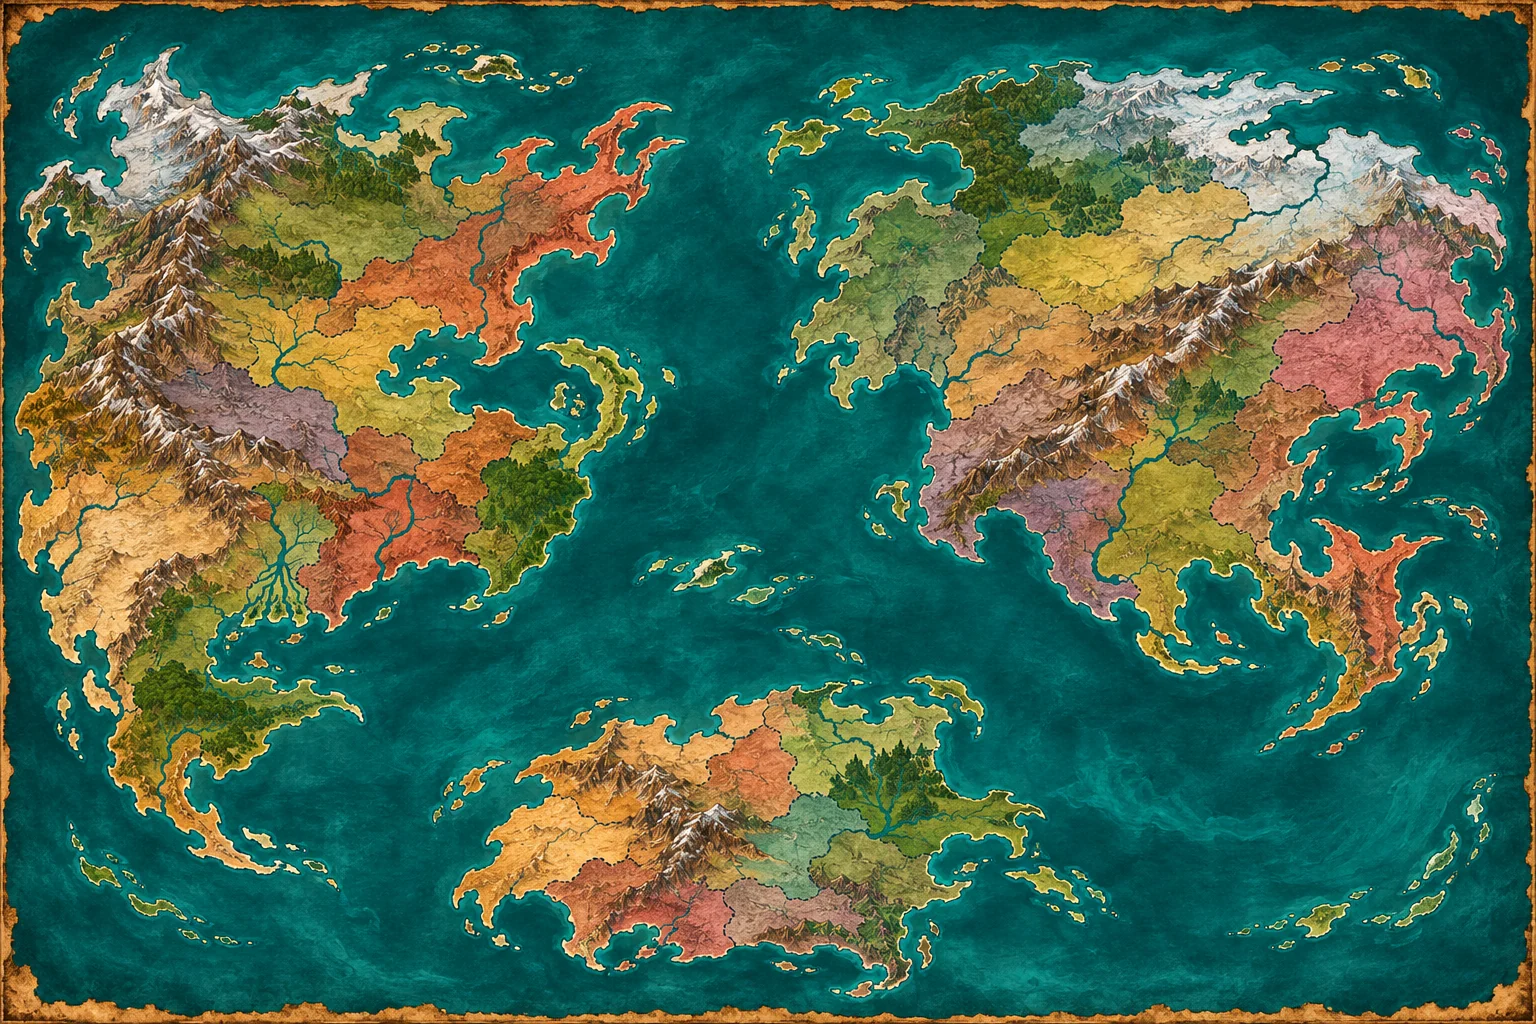
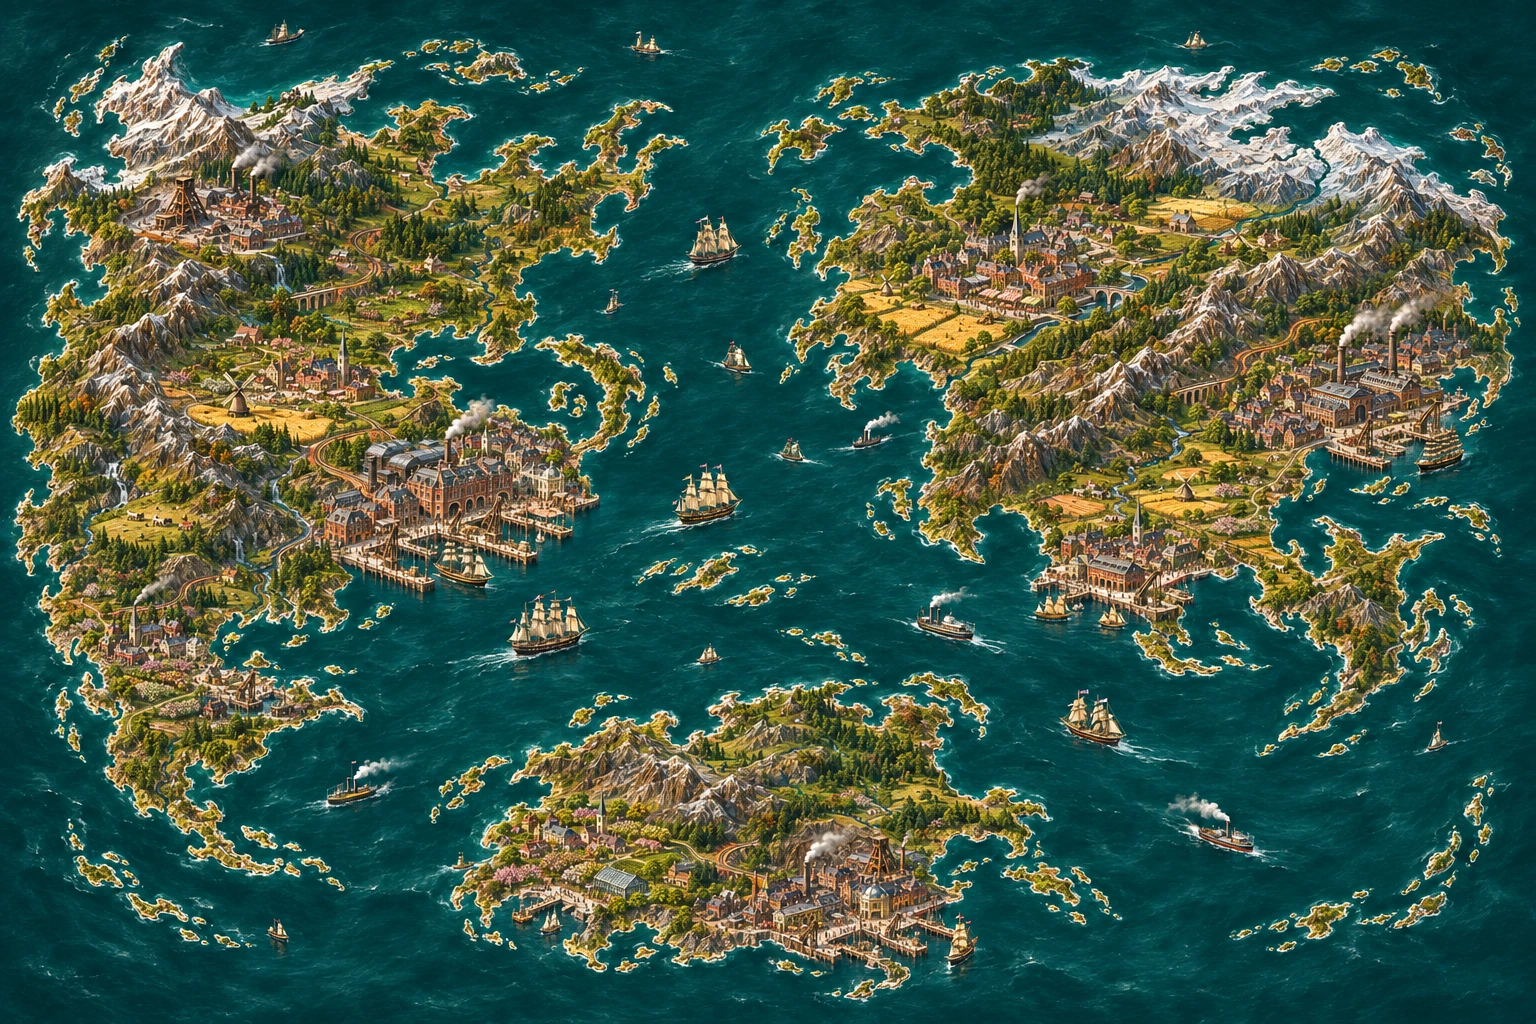
Paint the world trade atlas in the harbor's maritime style

diff --git a/webapp/js/student-ui.js b/webapp/js/student-ui.js
@@ -175,11 +175,11 @@ document.addEventListener('change', (e) => {
 // same map works with a touch screen, a mouse, and a keyboard.
 const MAP_POSITIONS = {
   // Western continent
-  Mineria: [13, 14, 'west'], Grainia: [19, 39, 'west'], Tropia: [12, 65, 'west'], Oilia: [34, 50, 'west'],
+  Mineria: [13, 21, 'west'], Grainia: [19, 39, 'west'], Tropia: [12, 65, 'west'], Oilia: [30, 48, 'west'],
   // Eastern continent
-  Technia: [66, 23, 'east'], Mechania: [89, 34, 'east'], Novia: [72, 54, 'east'],
+  Technia: [65, 26, 'east'], Mechania: [88, 38, 'east'], Novia: [72, 54, 'east'],
   // Southern continent
-  Agrea: [36, 81, 'south'], Ferria: [56, 86, 'south'],
+  Agrea: [37, 83, 'south'], Ferria: [56, 86, 'south'],
 };
 
 function worldMap() {
@@ -227,8 +227,8 @@ function worldMap() {
             <button type="button" class="country-marker ${country === S.country ? 'our-country' : ''}"
               style="--map-x:${x}%;--map-y:${y}%" data-act="map-select" data-country="${country}"
               aria-controls="world-country" aria-pressed="false">
-              ${country === S.country ? '<span aria-hidden="true">★</span><span class="sr-only">우리 나라 </span>' : ''}
-              ${esc(gname(country))}
+              <span class="country-name">${country === S.country ? '<span aria-hidden="true">★</span><span class="sr-only">우리 나라 </span>' : ''}
+              ${esc(gname(country))}</span>
             </button>`).join('')}
         </div>
           <div class="atlas-controls" role="group" aria-label="지도 카메라">
@@ -265,10 +265,22 @@ const TRIP_MS = 5200;
 
 // The hand-painted map has a road junction, harbor and offshore way point per continent.
 const CONTINENT_ROUTES = {
-  west: { junction: [18, 46], harbor: [34, 56], offshore: [42, 61] },
-  east: { junction: [68, 42], harbor: [61, 46], offshore: [58, 52] },
-  south: { junction: [47, 80], harbor: [55, 70], offshore: [54, 65] },
+  west: { junction: [20, 45], harbor: [34, 53], offshore: [36, 54.1] },
+  east: { junction: [74, 45], harbor: [72, 59], offshore: [71.5, 61.6] },
+  south: { junction: [47, 82], harbor: [61.4, 91.6], offshore: [65.8, 94.5] },
 };
+
+// Ordered offshore waypoints keep both renderers on the same navigable channels.
+const SEA_LANES = {
+  west: { east: [[52.5,52.9], [68.7,61.6]],
+    south: [[55.1,64.3], [63,65.5], [72,64], [75,71], [74,76], [73,87]] },
+  east: { south: [[72,64], [75,71], [74,76], [73,87]] },
+};
+
+function seaLane(from, to, departure = CONTINENT_ROUTES[from].harbor, arrival = CONTINENT_ROUTES[to].harbor) {
+  const turns = SEA_LANES[from]?.[to] || [...SEA_LANES[to][from]].reverse();
+  return [departure, CONTINENT_ROUTES[from].offshore, ...turns, CONTINENT_ROUTES[to].offshore, arrival];
+}
 
 function shipmentStages(leg, airRoutes = false) {
   const start = MAP_POSITIONS[leg.seller];
@@ -283,7 +295,7 @@ function shipmentStages(leg, airRoutes = false) {
   }
   return [
     { type: 'truck', points: [start, origin.junction, origin.harbor], from: 0, to: .23 },
-    { type: 'ship', points: [origin.harbor, origin.offshore, destination.offshore, destination.harbor], from: .23, to: .77 },
+    { type: 'ship', points: seaLane(start[2], end[2]), from: .23, to: .77 },
     { type: 'truck', points: [destination.harbor, destination.junction, end], from: .77, to: 1 },
   ];
 }
@@ -405,8 +417,9 @@ function openTradeMap() {
   const frame = $('.atlas-frame');
   if (!frame?.classList.contains('showing-harbor')) return;
   frame.classList.remove('showing-harbor');
+  frame.closest('#world').scrollIntoView({ block: 'start' });
   if (tradeAtlas?.ready) tradeAtlas.changeCamera('reset');
-  else if (tradeAtlas) tradeAtlas.camera = { x: 0, z: 0, zoom: 1, yaw: -.12 };
+  else if (tradeAtlas) tradeAtlas.camera = { x: 0, z: 0, zoom: 1, yaw: 0 };
 }
 
 function bindHarbor(frame) {
@@ -859,6 +872,9 @@ const ATLAS_FRAGMENT = `#version 300 es
     return .64 + .36 * texture(shadows, uv);
   }
   uniform sampler2D materials;
+  uniform sampler2D worldPainting;
+  uniform sampler2D steamer;
+  uniform float zoom;
   in vec2 uv;
   uniform int layer;
   uniform float time;
@@ -872,11 +888,22 @@ const ATLAS_FRAGMENT = `#version 300 es
     return mix(mix(h.x,h.y,f.x), mix(h.z,h.w,f.x), f.y);
   }
   void main() {
+    if (layer == 3) {
+      pixel = texture(steamer, uv);
+      if (pixel.a < .08) discard;
+      return;
+    }
     if (layer == 2) {
       vec3 albedo = uv.x < 0. ? rgb : rgb * texture(materials, uv).rgb;
       pixel = vec4(albedo * light(p), 1.);
       return;
     }
+    // The painting follows world coordinates through rotation, zoom and every terrain triangle.
+    vec2 mapUV = p.xz / vec2(18., 12.) + .5;
+    float margin = min(min(mapUV.x, mapUV.y), min(1.-mapUV.x, 1.-mapUV.y));
+    vec2 waveUV = .00034 * vec2(sin(p.z*12.+time), cos(p.x*13.-time*.7));
+    vec3 paint = texture(worldPainting, mapUV + (rgb.r < 0. ? waveUV : vec2(0.))).rgb;
+    float ink = smoothstep(-.005,.016,margin) * (1.-smoothstep(3.5,11.,zoom));
     float grain = noise(p.xz * 4.) * .7 + noise(p.xz * 23.) * .3;
     if (layer == 1 && rgb.r > 0.) {
       vec3 n = normalize(cross(dFdx(p), dFdy(p)));
@@ -886,14 +913,15 @@ const ATLAS_FRAGMENT = `#version 300 es
       vec3 ground = mix(grass, rock, smoothstep(.28,.68,p.y) * (1. - abs(n.y)*.56));
       ground = mix(ground, vec3(.88,.89,.79), smoothstep(.73,.94,p.y));
       ground = mix(vec3(.84,.75,.51), ground, smoothstep(.008,.14,rgb.r));
-      pixel = vec4(ground * (.73 + sunlight*.36) * light(p), 1.);
+      pixel = vec4(mix(ground * (.73 + sunlight*.36) * light(p), paint * (.95 + .065*sunlight), ink), 1.);
     } else {
       float depth = layer == 1 ? -rgb.r : 1.;
       vec3 sea = mix(vec3(.21,.65,.59),vec3(.055,.32,.43), smoothstep(0.,.65,depth));
       float swell = sin(p.z*19. + sin(p.x*7.-time*.8));
       float wave = sin(p.z*111.+p.x*15.+grain*7.+time*2.1) * .65 + .35*swell;
       float surf = (1. - smoothstep(.01,.15,depth)) * smoothstep(-.65,.7,sin(depth*132.-time*2.2+grain));
-      pixel = vec4(mix(sea,vec3(.87,.91,.77),surf*.74) + vec3(.04,.07,.06)*smoothstep(.49,.93,wave)*grain,1.);
+      vec3 coast = mix(sea, vec3(.87,.91,.77), surf*.74);
+      pixel = vec4(mix(coast, paint, ink) + vec3(.04,.07,.06)*smoothstep(.49,.93,wave)*grain,1.);
     }
   }`;
 
@@ -950,7 +978,7 @@ function atlasTerrain(art, mask) {
     const inland = Math.min(1, distance / 10);
     return .05 + inland * (.13 + snow ** 1.65 * .93 + ridges * .06);
   });
-  // Fade out the decorative border that belongs only to the illustrated 2D map.
+  // Taper the outermost terrain cells into the surrounding sea.
   for (let i = 0; i < elevation.length; i++) {
     const x = i % TERRAIN_WIDTH, z = Math.floor(i / TERRAIN_WIDTH);
     const edge = Math.min(x, TERRAIN_WIDTH-1-x, z, TERRAIN_DEPTH-1-z);
@@ -1505,7 +1533,7 @@ function atlasShipment(leg) {
     { type: 'truck', points: [start.gate, first.junction, origin.apron], from: 0, to: .22, caption: '출발지 창고에서 항구로 가는 중' },
     { type: 'load', points: [origin.apron, origin.berth], from: .22, to: .36, dock: origin,
       caption: '출발 항구에서 배에 짐을 싣는 중' },
-    { type: 'ship', points: [origin.berth, origin.offshore, destination.offshore, destination.berth],
+    { type: 'ship', points: seaLane(start.area, end.area, origin.berth, destination.berth),
       from: .36, to: .70, caption: '화물선이 바다를 건너는 중' },
     { type: 'unload', points: [destination.berth, destination.apron], from: .70, to: .84, dock: destination,
       caption: '도착 항구에서 배의 짐을 내리는 중' },
@@ -1534,12 +1562,15 @@ class TradeAtlas {
   }
 
   async init() {
-    const [art, ocean, materials] = await Promise.all([atlasImage('art/world-map.webp'), atlasImage('art/ocean-mask.webp'), atlasImage('art/harbor-materials.webp')]);
+    const [art, ocean, materials, ship] = await Promise.all([
+      atlasImage('art/world-map.webp'), atlasImage('art/ocean-mask.webp'),
+      atlasImage('art/harbor-materials.webp'), atlasImage('art/harbor-steamer.webp'),
+    ]);
     if (this.disposed) return;
     const gl = this.gl;
     this.program = atlasProgram(gl);
     gl.useProgram(this.program);
-    this.uniform = Object.fromEntries(['camera', 'time', 'layer'].map((key) => [key, gl.getUniformLocation(this.program, key)]));
+    this.uniform = Object.fromEntries(['camera', 'time', 'layer', 'zoom'].map((key) => [key, gl.getUniformLocation(this.program, key)]));
     const terrain = atlasTerrain(imagePixels(art), imagePixels(ocean));
     this.elevation = terrain.elevation;
     this.terrain = this.buffer(terrain.vertices, terrain.indices);
@@ -1548,12 +1579,17 @@ class TradeAtlas {
     this.water = this.buffer(water);
     this.props = this.buffer(this.scenery());
     this.bakeSunlight();
-    gl.activeTexture(gl.TEXTURE1);
-    gl.bindTexture(gl.TEXTURE_2D, gl.createTexture());
-    gl.texImage2D(gl.TEXTURE_2D, 0, gl.RGBA, gl.RGBA, gl.UNSIGNED_BYTE, materials);
-    gl.texParameteri(gl.TEXTURE_2D, gl.TEXTURE_MIN_FILTER, gl.LINEAR_MIPMAP_LINEAR);
-    gl.generateMipmap(gl.TEXTURE_2D);
-    gl.uniform1i(gl.getUniformLocation(this.program, 'materials'), 1);
+    for (const [unit, texture, sampler] of [[1, materials, 'materials'], [2, art, 'worldPainting'], [3, ship, 'steamer']]) {
+      gl.activeTexture(gl.TEXTURE0 + unit);
+      gl.bindTexture(gl.TEXTURE_2D, gl.createTexture());
+      gl.texImage2D(gl.TEXTURE_2D, 0, gl.RGBA, gl.RGBA, gl.UNSIGNED_BYTE, texture);
+      gl.texParameteri(gl.TEXTURE_2D, gl.TEXTURE_MIN_FILTER, gl.LINEAR_MIPMAP_LINEAR);
+      gl.texParameteri(gl.TEXTURE_2D, gl.TEXTURE_WRAP_S, gl.CLAMP_TO_EDGE);
+      gl.texParameteri(gl.TEXTURE_2D, gl.TEXTURE_WRAP_T, gl.CLAMP_TO_EDGE);
+      gl.generateMipmap(gl.TEXTURE_2D);
+      gl.uniform1i(gl.getUniformLocation(this.program, sampler), unit);
+    }
+    this.shipBuffer = this.buffer([]);
     this.dynamic = this.buffer([]);
     this.ambient = this.traffic().map((craft) => ({
       forward: craft,
@@ -1709,8 +1745,8 @@ class TradeAtlas {
       makeCraft('truck', [MAP_POSITIONS.Tropia, west.junction, MAP_POSITIONS.Grainia]),
       makeCraft('truck', [MAP_POSITIONS.Mechania, east.junction, MAP_POSITIONS.Novia]),
       makeCraft('truck', [MAP_POSITIONS.Agrea, south.junction, MAP_POSITIONS.Ferria]),
-      makeCraft('ship', [west.harbor, west.offshore, east.offshore, east.harbor]),
-      makeCraft('ship', [east.harbor, east.offshore, south.offshore, south.harbor]),
+      makeCraft('ship', seaLane('west', 'east')),
+      makeCraft('ship', seaLane('east', 'south')),
       makeCraft('plane', [MAP_POSITIONS.Agrea, [41, 69], [28, 68], MAP_POSITIONS.Tropia]),
     ];
   }
@@ -1744,7 +1780,7 @@ class TradeAtlas {
   }
 
   projection(width, height, zoom = this.camera.zoom) {
-    const halfW = Math.max(width < 500 ? 10.3 : 10.9, 5.95 * width / height) / zoom;
+    const halfW = Math.max(9.02, 5.65 * width / height) / zoom;
     return { halfW, halfH: halfW * height / width, pitch: this.pitch(width, zoom) };
   }
 
@@ -1824,13 +1860,30 @@ class TradeAtlas {
     }
   }
 
-  craft(output, stage, progress) {
+  ship(output, sprites, x, y, z, heading) {
+    if (this.camera.zoom > 3.5) {
+      modelVehicle(output, 'ship', x, y, z, heading);
+      return;
+    }
+    const { yaw } = this.camera;
+    const pitch = this.pitch(this.viewport.clientWidth, this.camera.zoom);
+    const flip = Math.cos(yaw + heading) < 0;
+    // Stand the miniature in the camera plane with its keel on the sea route.
+    for (const [u,v] of [[0,1],[1,1],[1,0],[0,1],[1,0],[0,0]]) {
+      const right = (u-.5)*.82, up = (.92-v)*.55;
+      const forward = -Math.sin(pitch)*up;
+      sprites.push(x + Math.cos(yaw)*right + Math.sin(yaw)*forward, y + Math.cos(pitch)*up,
+        z - Math.sin(yaw)*right + Math.cos(yaw)*forward, 1,1,1, flip ? 1-u : u,v);
+    }
+  }
+
+  craft(output, sprites, stage, progress) {
     const [x, z, yaw] = craftLocation(stage, progress);
     if (stage.dock) {
       const { dock } = stage;
       const [bx, bz] = mapXZ(dock.berth);
       const [tx, tz] = mapXZ(dock.apron);
-      modelVehicle(output, 'ship', bx, .012, bz, dock.yaw);
+      this.ship(output, sprites, bx, .012, bz, dock.yaw);
       modelVehicle(output, 'truck', tx, Math.max(.18, this.surface(tx, tz)), tz, dock.yaw);
       const y = .14 + Math.sin(progress * Math.PI) * .32;
       atlasCrate(output, x, y, z, dock.yaw, .123);
@@ -1841,7 +1894,8 @@ class TradeAtlas {
     }
     const y = stage.type === 'plane' ? .69 + Math.sin(progress * Math.PI) * .34
       : stage.type === 'ship' ? .012 : Math.max(.012, this.surface(x, z));
-    modelVehicle(output, stage.type, x, y, z, yaw);
+    if (stage.type === 'ship') this.ship(output, sprites, x, y, z, yaw);
+    else modelVehicle(output, stage.type, x, y, z, yaw);
     return this.project(x, y + .31, z);
   }
 
@@ -1850,7 +1904,7 @@ class TradeAtlas {
     const width = this.viewport.clientWidth, height = this.viewport.clientHeight;
     if (!width || !height) return;
     const gl = this.gl;
-    const ratio = Math.min(devicePixelRatio, this.software ? .85 : 1.5);
+    const ratio = Math.min(devicePixelRatio, this.software ? 1 : 1.5);
     const w = Math.round(width * ratio), h = Math.round(height * ratio);
     if (this.canvas.width !== w || this.canvas.height !== h) {
       this.canvas.width = w;
@@ -1879,30 +1933,32 @@ class TradeAtlas {
       if (buffer.indexed) gl.drawElements(gl.TRIANGLES, buffer.count, gl.UNSIGNED_SHORT, 0);
       else gl.drawArrays(gl.TRIANGLES, 0, buffer.count);
     };
+    gl.uniform1f(this.uniform.zoom, this.camera.zoom);
     draw(this.water, 0);
     draw(this.terrain, 1);
-    draw(this.props, 2);
+    const localDetail = this.camera.zoom > 2.8;
+    if (localDetail) draw(this.props, 2);
     // Skip the detailed houses of distant nations when the camera is over a single town.
     const { halfW, halfH, pitch } = this.projection(width, height);
     const visibleRadius = Math.hypot(halfW, halfH / Math.sin(pitch)) + 2.5;
     for (const { center: [x, z], mesh } of this.districts) {
-      if (Math.hypot(x - this.camera.x, z - this.camera.z) <= visibleRadius) draw(mesh, 2);
+      if (localDetail && Math.hypot(x - this.camera.x, z - this.camera.z) <= visibleRadius) draw(mesh, 2);
     }
     if (this.camera.zoom < 3.6) draw(this.ambientRoads, 2);
     if (this.activeRoads) draw(this.activeRoads, 2);
-    const mesh = [];
-    for (const mill of this.mills) millSails(mesh, mill, clock);
+    const mesh = [], sprites = [];
+    if (localDetail) for (const mill of this.mills) millSails(mesh, mill, clock);
     if (!this.motion.matches) for (const [i, { forward, reverse }] of this.ambient.entries()) {
       if (this.camera.zoom > 12 && forward.type === 'plane') continue; // Keep dock and street close-ups clear.
       const travel = (clock / (22 + i * 2) + i * .27) % 2;
-      this.craft(mesh, travel < 1 ? forward : reverse, travel % 1);
+      this.craft(mesh, sprites, travel < 1 ? forward : reverse, travel % 1);
     }
     for (const [i, badge] of this.badges.entries()) {
       const route = this.routes[i];
       let position;
       if (route) for (const stage of route.stages) {
         if (!this.motion.matches && elapsed >= stage.begin && elapsed < stage.end) {
-          position = this.craft(mesh, stage, (elapsed - stage.begin) / (stage.end - stage.begin));
+          position = this.craft(mesh, sprites, stage, (elapsed - stage.begin) / (stage.end - stage.begin));
         }
       }
       badge.hidden = !position || position.some((v) => v < 3 || v > 97);
@@ -1916,6 +1972,15 @@ class TradeAtlas {
     gl.bufferData(gl.ARRAY_BUFFER, new Float32Array(mesh), gl.STREAM_DRAW);
     this.dynamic.count = mesh.length / 8;
     draw(this.dynamic, 2);
+    if (sprites.length) {
+      gl.bindBuffer(gl.ARRAY_BUFFER, this.shipBuffer.vbo);
+      gl.bufferData(gl.ARRAY_BUFFER, new Float32Array(sprites), gl.STREAM_DRAW);
+      this.shipBuffer.count = sprites.length / 8;
+      gl.enable(gl.BLEND);
+      gl.blendFunc(gl.SRC_ALPHA, gl.ONE_MINUS_SRC_ALPHA);
+      draw(this.shipBuffer, 3);
+      gl.disable(gl.BLEND);
+    }
     const detailCountry = this.following && lead ? (elapsed < .53 ? lead.seller : lead.buyer) : this.selectedCountry;
     const labelKey = JSON.stringify([width, height, this.camera, detailCountry]);
     if (this.labelKey === labelKey) return;
@@ -1956,7 +2021,7 @@ class TradeAtlas {
   }
 
   pitch(width, zoom) {
-    const overhead = width < 500 ? 1.17 : .96;
+    const overhead = width < 500 ? 1.39 : 1.30;
     return overhead + (.67 - overhead) * within((zoom - 1.7) / 3.5, 0, 1);
   }
 
@@ -2048,7 +2113,7 @@ class TradeAtlas {
       }
     }
     const camera = this.camera;
-    if (action === 'reset') Object.assign(camera, { x: 0, z: 0, zoom: 1, yaw: -.12 });
+    if (action === 'reset') Object.assign(camera, { x: 0, z: 0, zoom: 1, yaw: 0 });
     if (action === 'left' || action === 'right') camera.yaw += action === 'right' ? .23 : -.23;
     if (typeof action === 'number') this.zoomAround(action, point);
     this.render();

diff --git a/webapp/trade.css b/webapp/trade.css
@@ -346,7 +346,7 @@ h1, h2 { font-family: "Nanum Myeongjo", "Batang", Georgia, serif; }
 }
 .world-layout {
   display: grid;
-  grid-template-columns: minmax(0, 1.75fr) minmax(16rem, 1fr);
+  grid-template-columns: minmax(0, 2.5fr) minmax(16rem, 1fr);
   align-items: start;
   gap: .85rem;
 }
@@ -390,29 +390,32 @@ h1, h2 { font-family: "Nanum Myeongjo", "Batang", Georgia, serif; }
   transform: translate(-50%, -50%);
   z-index: 1;
   min-height: 44px;
-  padding: .25rem .55rem;
-  background: #162d32ed;
+  min-width: 44px;
+  padding: 0;
   color: #fff6df;
-  border: 1px solid #e5cb89;
-  border-radius: .3rem;
-  box-shadow: 0 2px 6px #12263280;
-  font-size: clamp(.68rem, 2.65cqw, .95rem);
-  line-height: 1.15;
+  background: transparent;
+  border: 0;
+  box-shadow: none;
+  font-size: clamp(.68rem, 2.25cqw, .91rem);
+  line-height: 1.2;
   white-space: nowrap;
 }
-.country-marker:hover, .country-marker[aria-pressed="true"] {
-  background: #ffdf92;
-  color: #252b2c;
+.country-name {
+  display: inline-block;
+  padding: .22rem .5rem;
+  border: 1px solid #ceb77f;
+  border-radius: .16rem;
+  background: #21342feb;
+  box-shadow: 0 1px 4px #17221aab;
 }
-.country-marker[aria-pressed="true"] {
-  z-index: 2;
-  outline: 2px solid #f9e6b7;
-  outline-offset: 2px;
+.country-marker:hover, .country-marker[aria-pressed="true"] { background: transparent; z-index: 2; }
+.country-marker:hover .country-name, .country-marker[aria-pressed="true"] .country-name {
+  color: #2e281b;
+  background: #f6e4b8;
+  border-color: #fff0cb;
 }
-.country-marker:focus-visible { outline: 3px solid #7ddcfc; outline-offset: 3px; }
-.country-marker.our-country { border-width: 2px; border-color: #ffdc75; }
-.our-country span[aria-hidden] { color: var(--gold); }
-.our-country[aria-pressed="true"] span[aria-hidden], .our-country:hover span[aria-hidden] { color: #6d4715; }
+.country-marker:focus-visible { outline: 3px solid #7ddcfc; outline-offset: 1px; }
+.country-marker.our-country .country-name { border-color: #ffd474; }
 .world-country {
   min-width: 0;
   border: 1px solid var(--line);
